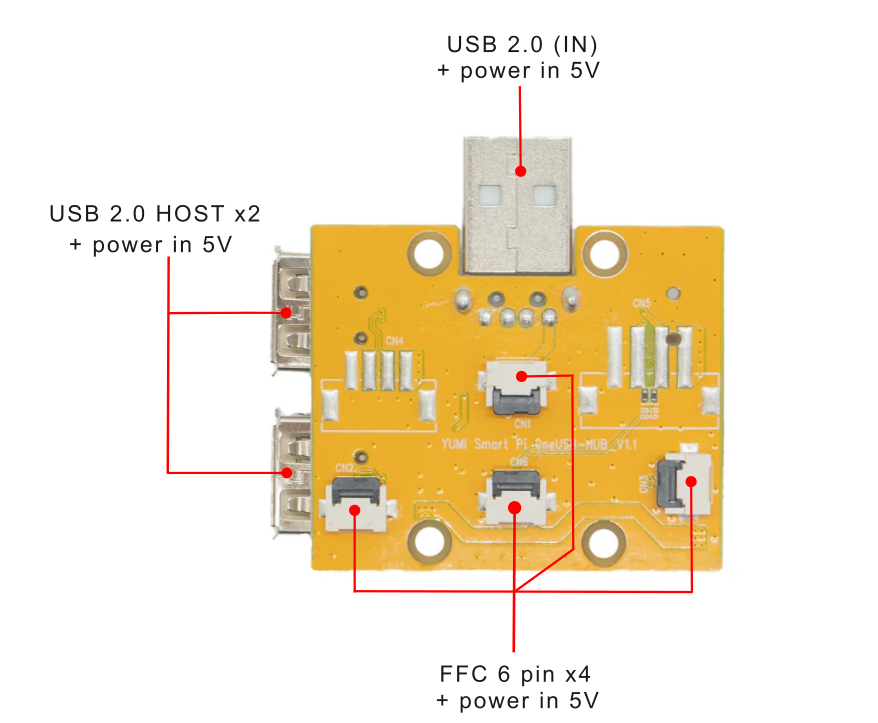
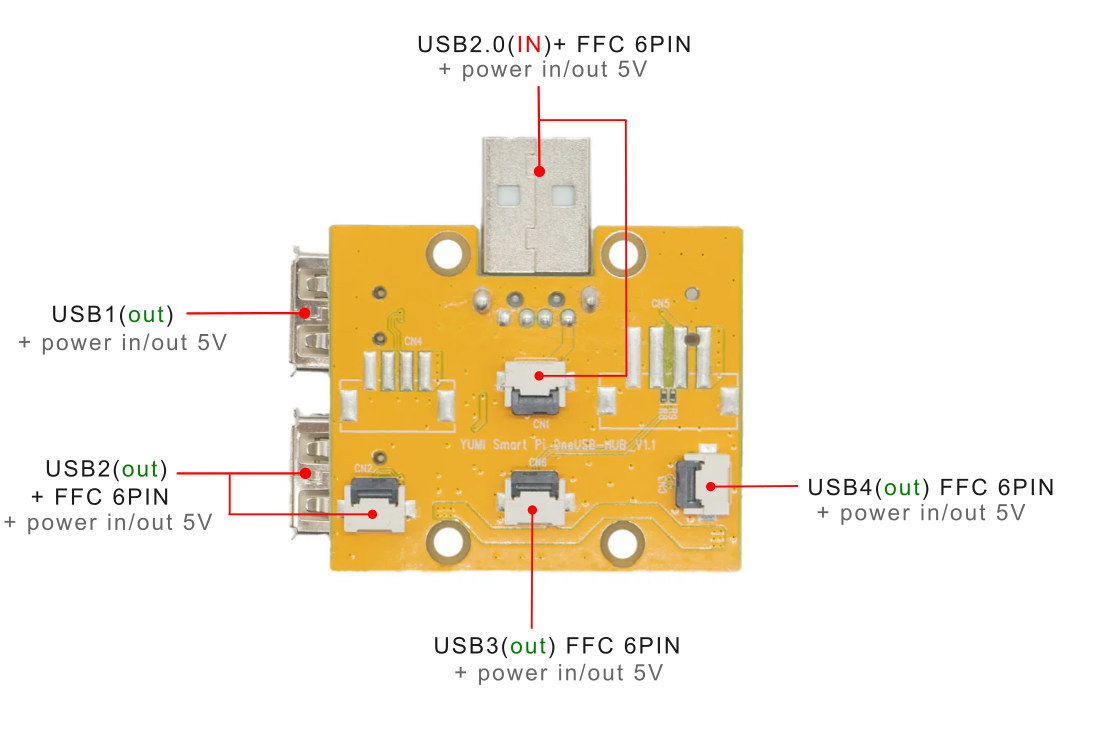
Update Smart Hub specification

Changed region(s): [[0.0, 0.0304, 0.9841, 1.0]]

diff --git a/docs/Yumi_Components/SmartHub_specifications.md b/docs/Yumi_Components/SmartHub_specifications.md
@@ -1,9 +1,11 @@
 # 1.2 Smart Hub
 <img src="../../img/SmartPi/Yumi_Components/SmartHub_specifications/smart_hub_usb_1_4_top.png" width="560" alt="Top view"> <p align="left">**[Top view]**</p>
-<img src="../../img/SmartPi/Yumi_Components/SmartHub_specifications/smart_hub_usb_1_4_bottom.png" width="600" alt="TBottom view"> <p align="left">**[Bottom view]**</p>
+<img src="../../img/SmartPi/Yumi_Components/SmartHub_specifications/smart_hub_usb_1_4_bottom.png" width="600" alt="Bottom view"> <p align="left">**[Bottom view]**</p>
 
 ## 1.2.1 Product Description
 The YUMI SMART HUB 1 to 4 revolutionizes the management of power and connectivity for your devices. With an innovative configuration including 1 USB 2.0 input, 2 standard USB 2.0 outputs and 2 USB 2.0 outputs in 6pin FFC format, this hub stands out for its ability to inject 5V into all USB ports, whether from the inputs or exits. This unique feature not only powers the SMART PI ONE, but also all connected devices, providing unprecedented flexibility in energy management.
+
+<img src="../../img/SmartPi/Yumi_Components/SmartHub_specifications/smart_hub_usb_1_4_side.png)" width="600" alt="side view">
 
 ### Applications
 * Power and connect multiple USB devices without worry of power management.
